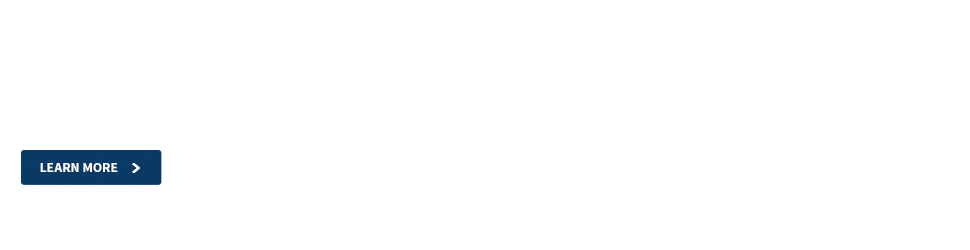
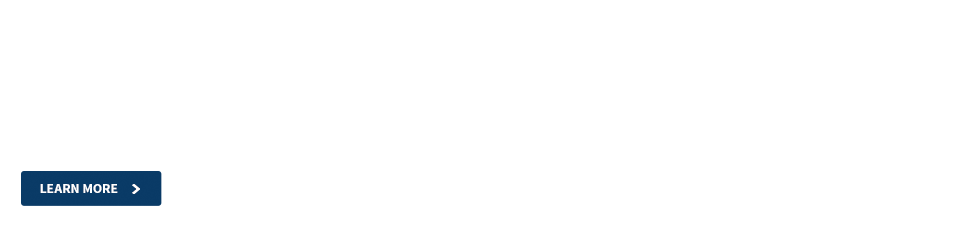
amends

Changed region(s): [[0.0, 0.728, 0.1856, 0.84], [0.0, 0.588, 0.1856, 0.7]]

diff --git a/Mimecast/300x250/index.html b/Mimecast/300x250/index.html
@@ -30,12 +30,13 @@
 		TweenLite.set([bg, logo, spiral, spiral_copy],{opacity:1});
 
 		TweenLite.to(copy1,0.5,{opacity:1, ease:Quad.easeIn, delay:0.2});
+		TweenLite.to(cta,0.5,{opacity:1, ease:Quad.easeIn, delay:0.5});
 
 		TweenLite.to(copy1,0.5,{opacity:0, ease:Quad.easeOut, delay:3.0});
 		TweenLite.to(copy2,0.5,{opacity:1, ease:Quad.easeIn, delay:3.5});
 
 		TweenLite.to(copy2,0.5,{opacity:0, ease:Quad.easeOut, delay:6.5});
-		TweenLite.to([copy3,cta],0.5,{opacity:1, ease:Quad.easeIn, delay:7.0});
+		TweenLite.to(copy3,0.5,{opacity:1, ease:Quad.easeIn, delay:7.0});
     	TweenLite.delayedCall(9.5,aminReset);
 		TweenLite.delayedCall(28,stop_anim)
 	}
